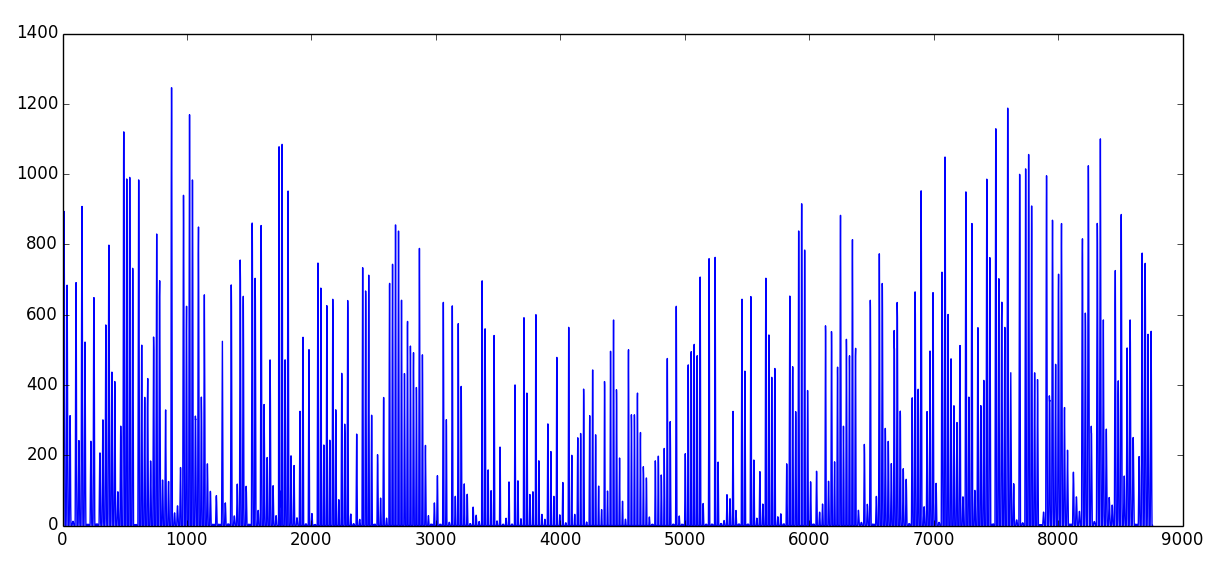
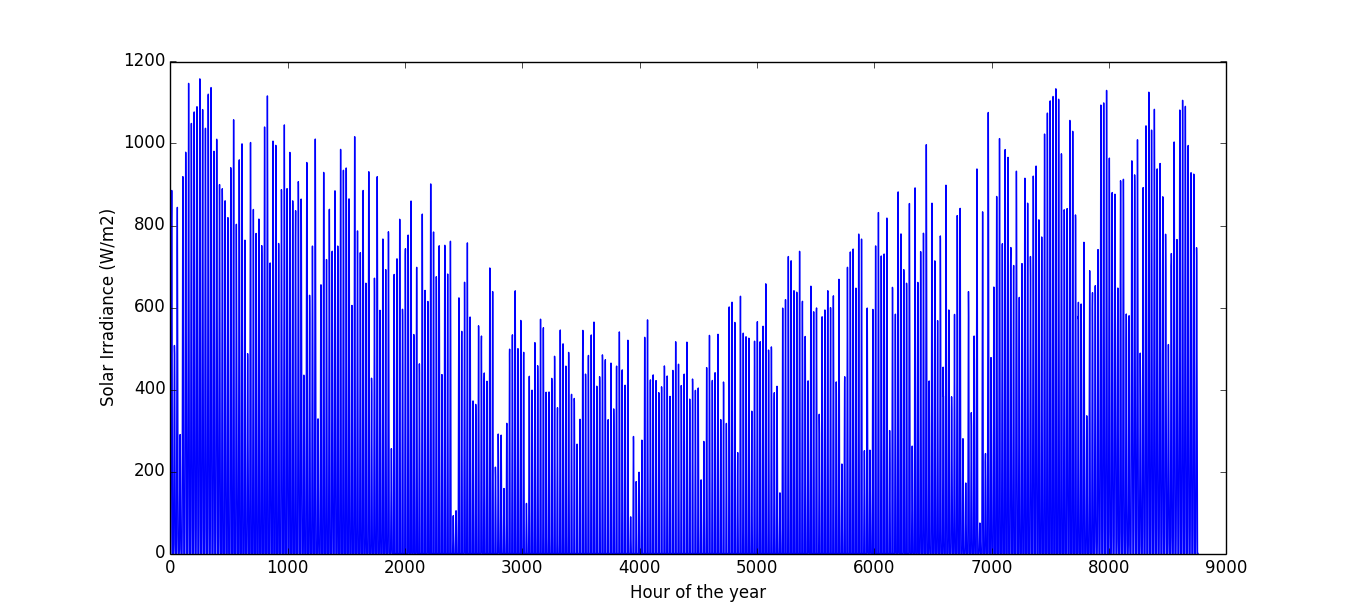
Major bugfix
Fixed a major bug in the calculation of daily clearness indices. Code
was also validated for a few sites by summing hourly sequence for the
whole year and comparing with SolarGIS yearly averages.

diff --git a/synth_solar.py b/synth_solar.py
@@ -143,7 +143,7 @@ def Aguiar_daily_Kt(Ktm, Kt0, nd):
 
     # 0.45 < Kt <= 0.50
     MTM_lib[4] = np.matrix([[0.120,0.200,0.160,0.120,0.120,0.120,0.080,0.000,0.040,0.040],
-                    [0.100,0.080,0.120,0.140,0.140,0.200,0.180,0.040,0.530,0.000],
+                    [0.100,0.080,0.120,0.140,0.140,0.200,0.180,0.040,0.000,0.000],
                     [0.046,0.114,0.068,0.171,0.125,0.171,0.080,0.159,0.057,0.011],
                     [0.015,0.061,0.084,0.099,0.191,0.153,0.153,0.115,0.115,0.015],
                     [0.024,0.030,0.098,0.098,0.165,0.195,0.195,0.140,0.043,0.012],
@@ -221,7 +221,7 @@ def Aguiar_daily_Kt(Ktm, Kt0, nd):
     min_state = MTM_min[MTM_index]                 
     max_state = MTM_max[MTM_index] 
     step_size = (max_state - min_state)/10
-    states = np.arange(min_state, max_state, step_size)   
+    states = np.arange(min_state, max_state, step_size)
     
     # Generate daily clearness indices for nd days
     Kti = Kt0
@@ -241,7 +241,7 @@ def Aguiar_daily_Kt(Ktm, Kt0, nd):
         else:
             k_interp = (R - MTM_cum[new_state-2]) / (MTM_cum[new_state-1]-MTM_cum[new_state-2])
         
-        Kti = k_interp * np.mean(np.cumsum(MTM[:,0:new_state], axis=1)[:,new_state-1])
+        Kti = states[new_state-1] + k_interp * step_size
         Kt.append(Kti)
     
     return Kt

diff --git a/README.md b/README.md
@@ -11,15 +11,24 @@ Example
 import synth_solar
 import matplotlib.pyplot as plt
 
+# Mean monthly clearness indices and latitude for Sydney, Australia
 Ktm = [0.49, 0.48, 0.50, 0.51, 0.51, 0.54, 0.54, 0.57, 0.56, 0.54, 0.51, 0.51]
 lat = -34.8
+
+# Generate sequence of synthetic hourly solar irradiances
 G0 = synth_solar.Aguiar_hourly_G0(Ktm, lat)
 
+# Print global horizontal irradiation (GHI) in kWh/m2/yr
+print(sum(G0))
+
+# Plot synthetic solar sequence
 plt.plot(G0)
 plt.show()
 ```
 
 ![screenshot of sample output](/example.png?raw=true)
+
+Running the above routine generates sequences with GHI typically in the range of 1550 - 1700 kWh/m2/yr, which is in line with the long-term solar irradiation in the greater Sydney area (e.g. based on satellite data such as SolarGIS).
 
 References
 ----------
